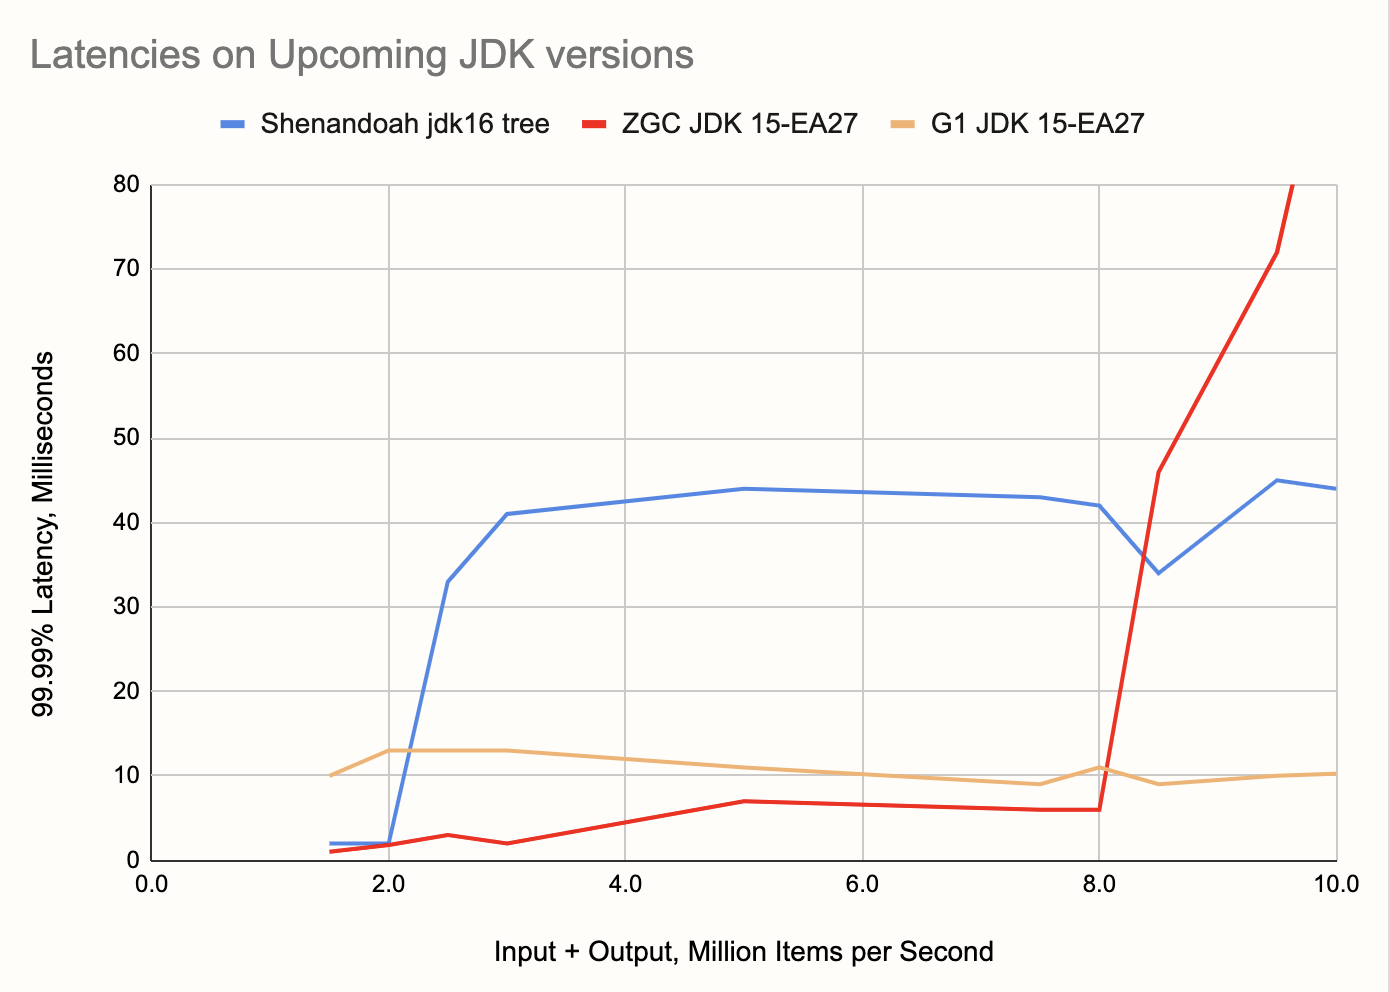
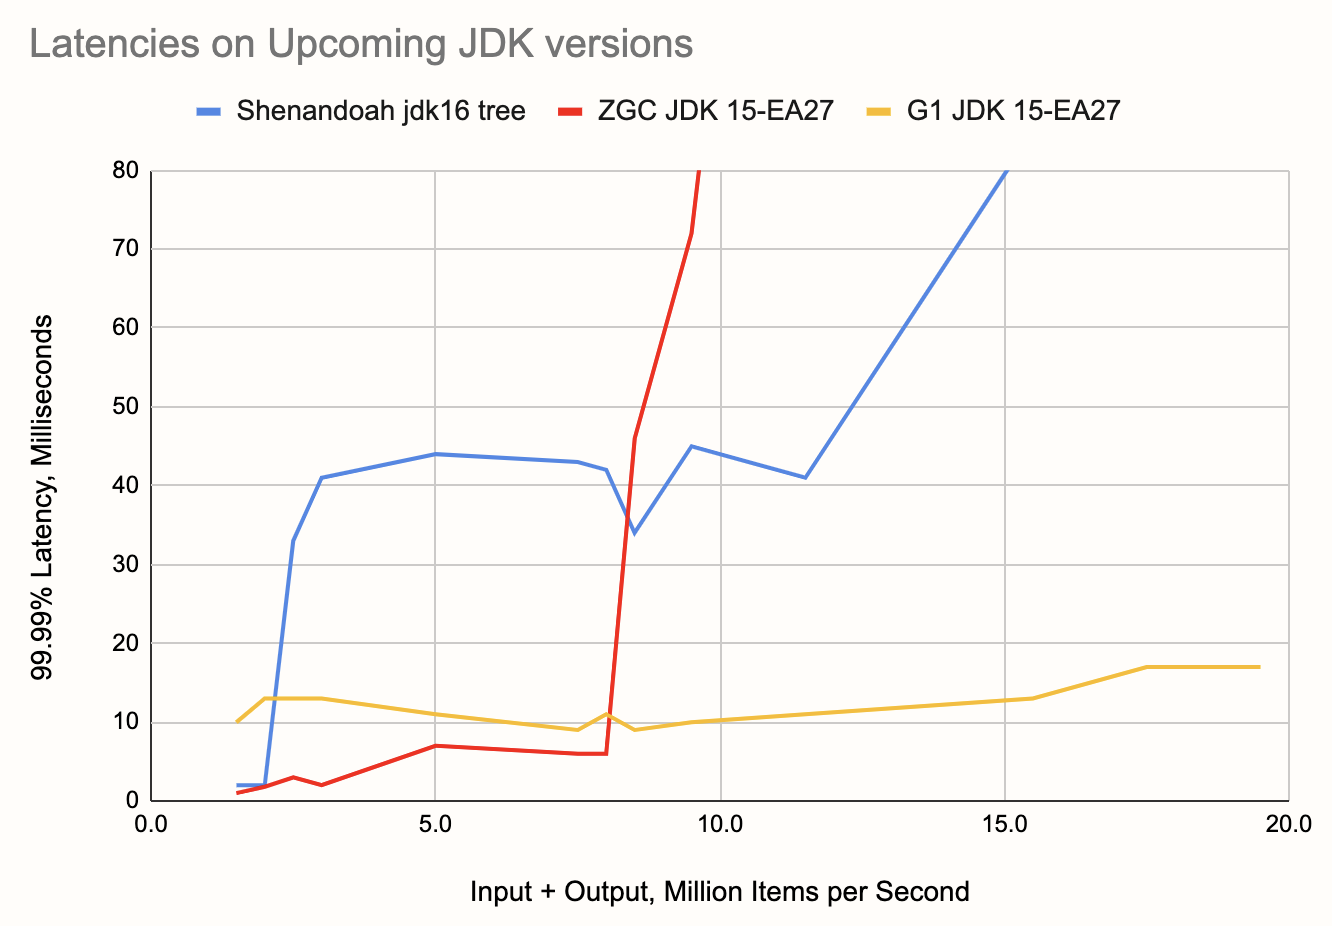
Update content, wider throughput range

diff --git a/site/website/blog/2020-06-23-jdk-gc-benchmarks-rematch.md b/site/website/blog/2020-06-23-jdk-gc-benchmarks-rematch.md
@@ -17,12 +17,12 @@ this month, analyzing the performance of modern JVMs on workloads that
 are relevant to the use case of real-time stream processing.
 
 As a quick recap, in Part 1 we tested the basic functionality of
-Hazelcast Jet (sliding window aggregation) on two types of workload:
-lightweight with a focus on low latency, and heavyweight with a focus on
-the data pipeline keeping up with high throughput and large aggregation
-state. For the low-latency benchmarks we chose the JDK 14 as the most
-recent stable version and three of its garbage collectors: Shenandoah,
-ZGC, and G1 GC.
+[Hazelcast Jet](https://github.com/hazelcast/hazelcast-jet) (sliding
+window aggregation) on two types of workload: lightweight with a focus
+on low latency, and heavyweight with a focus on the data pipeline
+keeping up with high throughput and large aggregation state. For the
+low-latency benchmarks we chose the JDK 14 as the most recent stable
+version and three of its garbage collectors: Shenandoah, ZGC, and G1 GC.
 
 Our finding that Shenandoah apparently fared worse than the other GCs
 attracted some reactions, most notably from the Shenandoah team who
@@ -39,6 +39,17 @@ pacer's heuristics to make the background GC work more proactive.
 Given this quick development, we wanted to test out the effects of the
 fix, but also take the opportunity to zoom in on the low-latency
 streaming case and make a more detailed analysis.
+
+Here are our main conclusions:
+
+1. ZGC is still the winner and the only GC whose 99.99th percentile
+   latency stayed below 10 ms across almost all of our tested range
+1. Shenandoah's pacer improvement has a very strong effect, reducing the
+   latency by a factor of three, but still staying well above 10 ms
+   except in the very lowest part of our tested range
+3. The slightly different methodology used in this round gives even
+   better latencies for G1, with the 99.99th percentile below 13 ms
+   across a wide range of throughputs
 
 ## The JDK We Tested
 
@@ -108,8 +119,8 @@ Note that the size of the keyset, somewhat counterintuitively, does not
 affect the size of the aggregation state. As long as the 10,000 input
 events received during one time slice of 10 milliseconds all use
 distinct keys, the state is fixed as described above. Only in the lowest
-setting, 5,000, the state is half as large since every hastable contains
-just 5,000 keys.
+setting, 5,000, the state is half as large since every hashtable
+contains just 5,000 keys.
 
 What the keyset size does affect is allocation rate. The pipeline emits
 the full keyset every 10 milliseconds. For example, with 50,000 keys
@@ -182,7 +193,7 @@ but overall all three cases show pretty similar behavior. G1 is clearly
 worse and its latency exceeds the 10 ms mark before even reaching the
 99th percentile. Since our pipeline emits a new result set ever 10 ms,
 we shall consider 10 ms as the cutoff point: everything above 10 ms
-should be considered as failure for our use case.
+should be considered a failure for our use case.
 
 Next, let's take a look at the latencies after increasing the throughput
 a bit, to 3 million items per second:
@@ -216,14 +227,13 @@ likely to find a latency spike at least that large. Here's the chart:
 
 Here are some things to note:
 
-1. The G1 collector is unphased by the differences in throughput. While
-   its latency is never under 10 milliseconds, it keeps its level over
-   the entire tested range and, judging by our previous results,
-   probably a lot more. Its latency even improves a bit with higher
-   loads.
-2. ZGC stays below 10 ms over a large part of the range, up to 8 M items
+1. ZGC stays below 10 ms over a large part of the range, up to 8 M items
    per second. This makes it not just the winner, but the only choice
    for the range from 2 million to 8 million items per second.
+2. The G1 collector is unphased by the differences in throughput. While
+   its latency is never under 10 milliseconds, it keeps its level over
+   the entire tested range and more. Its latency even improves a bit
+   with higher loads.
 3. At 9.5 M items per second, ZGC shows a remarkable recovery.
    Sandwiched between the latencies of 92 and 209 milliseconds, at this
    exact throughput it achieves 10 ms latency! We of course thought it
@@ -231,20 +241,28 @@ Here are some things to note:
    result was consistent. Maybe there's a lesson in there for the ZGC
    engineers.
 
+## A Sneak Peek into Upcoming Versions
+
 As a preview into what's coming up in OpenJDK, we also took a look at
 the [Early Access release 27 of JDK
 15](https://download.java.net/java/early_access/jdk15/28/GPL/openjdk-15-ea+28_linux-x64_bin.tar.gz).
-It lacks the pacer improvement for Shenondoah, so to properly test its
-prospects we used a build available at
+Shenandoah's pacer improvement is not applied in it, so to properly test
+Shenandoah's prospects we used a build available at
 [builds.shipilev.net/openjdk-jdk](https://builds.shipilev.net/openjdk-jdk/),
 specifically one that reports its version as `build
-16-testing+0-builds.shipilev.net-openjdk-jdk-b1282-20200611`.
-
+16-testing+0-builds.shipilev.net-openjdk-jdk-b1282-20200611`. Out of
+interest we also doubled our throughput range to capture more of the
+behavior after the latency exceeds 10 milliseconds. Here's what we got:
 
 ![Latencies on upcoming JDK versions](assets/2020-06-23-latencies-latest.png)
 
 We can see a nice incremental improvement for the ZGC: less than 5 ms
-latencies at throughputs below 5 M/s, but the other two collectors are
-essentially the same as before. Shenandoah's chart looks even a bit
-worse than before, but exactly how much above 10 milliseconds its
-latency was doesn't make a difference for our bottom line.
+latencies at throughputs below 5 M/s. Shenandoah's curve is even a bit
+worse at 2.5-3 M per second, but generally pretty similar. At higher
+loads we can see ZGC's failure mode is quite a bit more severe than
+Shenandoah's, although just how bad the latency gets doesn't affect the
+bottom line of a scenario where everything above 10 ms is already a
+failure.
+
+The wider chart also gives better insight into the stability of G1,
+keeping itself below 20 ms all the way up to 20 M items per second.
